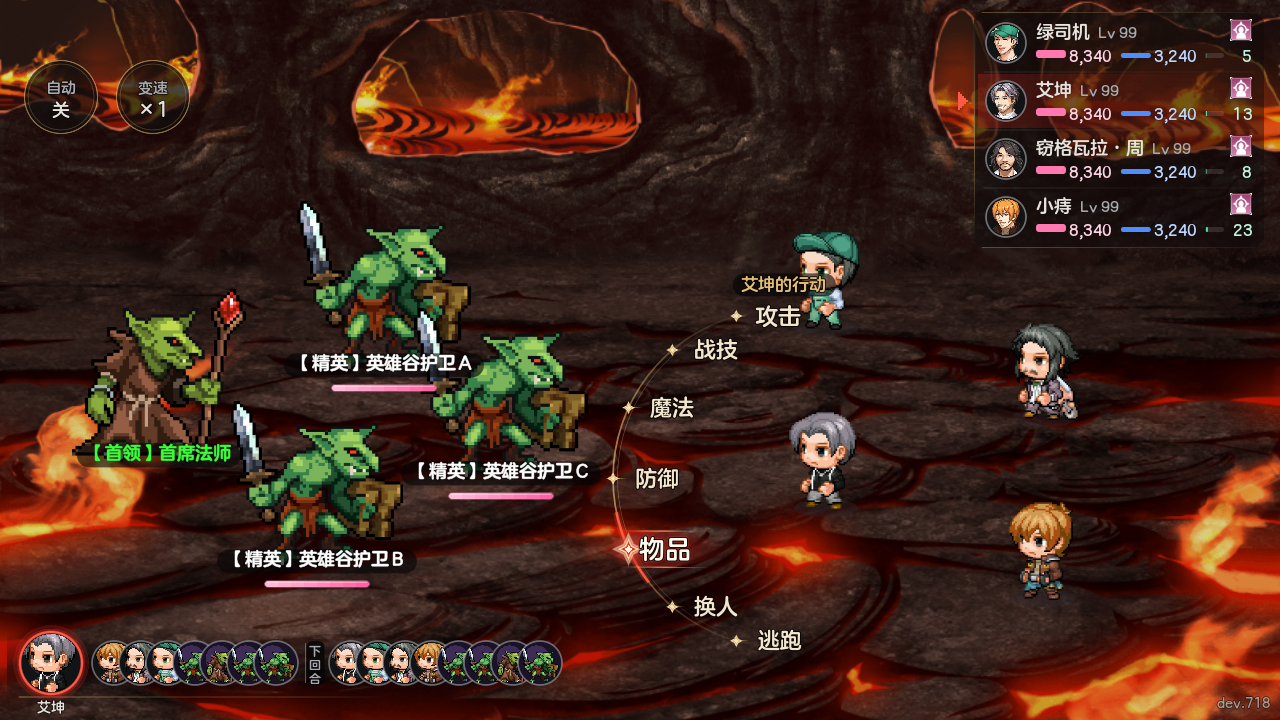
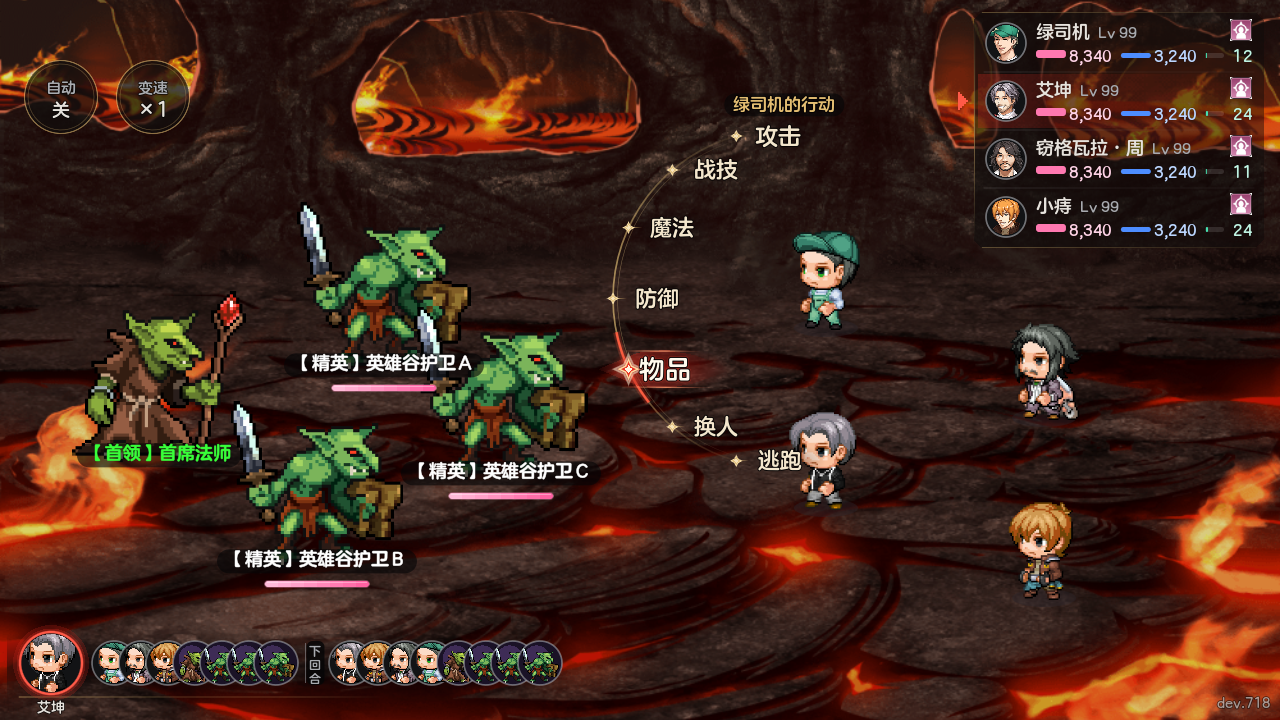
T190 退回修正：7 项指令环不压首领信息区（整环下移）、6 项对照、专项加相交断言
执行者: cc
核查: 待审查

diff --git a/00_项目管理/交付/luiluu_t190.md b/00_项目管理/交付/luiluu_t190.md
@@ -10,9 +10,12 @@
 - 改法（`skin_battle_ring.gd` `_layout_ring`）：BOWSTRING_B 且 7 项起，起弧段对称放在 180°（正左）两侧，半径按相邻项竖向间距 ≥ `MIN_GAP_B`（34 像素）加大（不超过 MAX_RADIUS）。2～6 项走原来的算法，位置逐项不变（专项逐项对比新旧）。
 - 回退开关：`XSkinBattleRing.SEVEN_FIX`（默认 true），设 false 回到旧排法（7 项又会重叠）。
 - 测试：新专项 `xiyou_ring_seven`（10 项：2～6 项新旧一致、7 项间距、框内、回退开关）、`xiyou_ring_seven_battle`（10 项：天启篇存档、助力位有人，首领战敌群 88、小怪战敌群 37 真起战斗，指令环 7 项、间距）。回归 `xiyou_ui_skin_battle_v07` 56/56、`xiyou_battle_layout` 78/78、`xiyou_ui_skin_battle` 67/67。检查.sh 没跑（派单说明不用）。
-- 截图（1280×720 原尺寸，Dummy 音频）：`luiluu_t190附图/首领战_7项.png`、`小怪战_7项.png`（攻击、战技、魔法、防御、物品、换人、逃跑 七项都分开）。
-- 玩家可见：天启篇战斗里指令环有「换人」时，「换人」和「逃跑」不再叠在一起。
-- 已知问题：7 项时半径变大，首领战（敌群 88）里环的左缘与首领信息行（弱／抗那行小字）部分交叠；小怪战无此问题。没拿 6 项首领战对比，不确定 6 项是否本来就交叠。留给总装或后续车道看是否要让位（环里挪右或信息行让位）。
+- 退回修正（P1，首领战 7 项环压住首领名、血量、详情、弱抗行和「某某的行动」）：新增 `BattleScene.boss_info_rect()`（顶上血弧的名字、血量区＋状态胶囊／详情／弱抗行的矩形）、`XSkinBattleRing.item_rects()`／`push_below()`；7 项（>6 项）指令环摆好后若有项或「某某的行动」与首领信息区相交，整环往下挪到刚好不压（贴画面底就挪到底）。回退开关同为 `SEVEN_FIX`（关掉不挪、也回旧排法）。
+- 6 项对照（同一角色绿司机、首领战，`首领战_6项对照.png`）：旧排法 6 项本来就贴着首领信息：「攻击」压在「某某的行动」下、「战技」贴着弱抗行。这次**没动 6 项**（派单要求不影响 6 项）；专项只记一笔，不断言。7 项现在下移后不压。
+- 测试：`xiyou_ring_seven_battle` 38/38（首领战、小怪战各一场，4 名行动者逐个摆一次环：7 项、间距 ≥ 34、不出画面、每项矩形和行动提示不与首领信息区相交）；`--six` 对照 14/14。`xiyou_ring_seven` 10/10。
+- 截图（1280×720 原尺寸，Dummy 音频，绿司机行动）：`luiluu_t190附图/首领战_7项.png`、`小怪战_7项.png`、`首领战_6项对照.png`。
+- 玩家可见：天启篇战斗里指令环有「换人」时，「换人」和「逃跑」不再叠在一起，首领战里也不再压住首领名字、血量和弱抗行。
+- 已知问题：6 项首领战旧排法个别行动者的环本来就贴／压首领信息区（见对照图），本单没动，如要改另派。
 - 提交：见「本分支提交」
 
 ## 交接板
@@ -27,9 +30,10 @@
 
 ## 可优化（流程／工具／效率）
 
-- 建议：7 项时环与首领信息行交叠，4A 让位（`drawn_rect`）可纳入首领信息行，由总装派界面车道。
+- 建议：6 项首领战旧排法也压首领信息区，可套同一个 `push_below` 去掉「>6 项」条件（需 Kyo 确认 6 项位置可以变），归界面车道。
 
 ## 本分支提交
 
 - 4f51a096b 指令环 7 项重叠修复（SEVEN_FIX）
 - 本次追加：真实战斗专项、截图、交付单
+- P1 退回修正：首领战 7 项环下移、6 项对照、专项加相交断言
